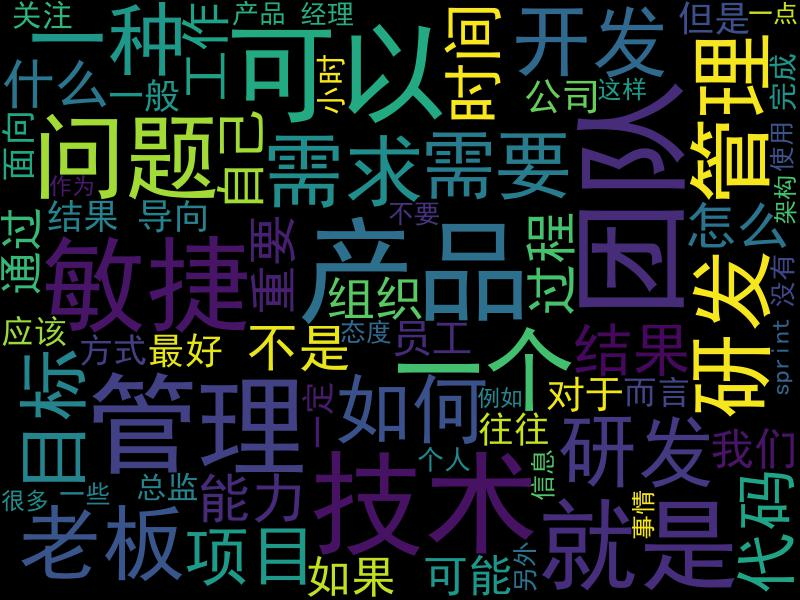
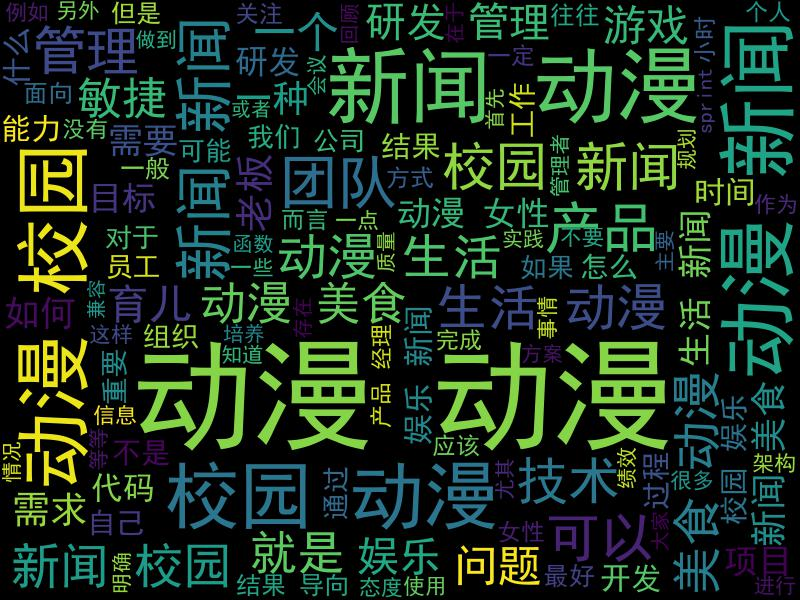
add interest bar_graph and finish query by interest

diff --git a/closends/templates/closends/setting_friends_manage.html b/closends/templates/closends/setting_friends_manage.html
@@ -783,7 +783,7 @@
                         <div class="col-md-8 person_info">
                             <div class="row">
                                 <div class="friend_name text-center col-md-6">
-                                    <a href="#">
+                                    <a href="{% url 'closends:friend_index' friend=friend.nickname page=1 %}">
                                         <strong>{{ friend.nickname }}</strong>
                                     </a>
                                 </div>
@@ -826,7 +826,7 @@
                         <div class="col-md-8 person_info">
                             <div class="row">
                                 <div class="friend_name text-center col-md-6">
-                                    <a href="#">
+                                    <a href="{% url 'closends:friend_index' friend=friend.nickname page=1 %}">
                                         <strong>{{ friend.nickname }}</strong>
                                     </a>
                                 </div>
@@ -869,7 +869,7 @@
                         <div class="col-md-8 person_info">
                             <div class="row">
                                 <div class="friend_name text-center col-md-6">
-                                    <a href="#">
+                                    <a href="{% url 'closends:friend_index' friend=friend.nickname page=1 %}">
                                         <strong>{{ friend.nickname }}</strong>
                                     </a>
                                 </div>

diff --git a/closends/templates/closends/friend_index.html b/closends/templates/closends/friend_index.html
@@ -110,6 +110,11 @@
             width: 100%;
             height: 100%;
         }
+
+        .interest .interest_bar_graph img{
+            width: 100%;
+            height: 100%;
+        }
     </style>
 
     <!--weibo-->
@@ -427,7 +432,9 @@
             </div>
 
             <div class="interest">
-                <div class="interest_bar_graph"></div>
+                <div class="interest_bar_graph">
+                    <img src="/static/closends/bar_graph/interest_bar.jpg">
+                </div>
                 <div class="interest_word_cloud">
                     <img src="/static/closends/wordcloud/cloud.jpg">
                 </div>

diff --git a/closends/views/main_page.py b/closends/views/main_page.py
@@ -12,10 +12,9 @@ from django.contrib.contenttypes.models import ContentType
         平台、分组、主题、时间、关键字查询
 """
 
-topic_name = ['IT', '人文艺术', '传媒', '体育', '健康',
-              '动漫', '女性', '娱乐', '广告公共', '房产',
-              '教育', '文学出版', '旅游', '时尚', '校园',
-              '汽车', '游戏', '生活', '美食', '育儿', '财经'] # 21 categories
+topic_name = ['体育', '健康', '动漫', '女性', '娱乐', '房产',
+              '教育', '文学', '新闻', '旅游', '时尚', '校园',
+              '汽车', '游戏', '生活', '科技', '美食', '育儿', '财经']
 
 @csrf_exempt
 @login_required
@@ -156,6 +155,7 @@ def query_by_platform(request, platform, page=1):
 @csrf_exempt
 @login_required
 def query_by_topic(request, topic, page=1):
+    print(topic)
     user = request.user.userinfo
     friends = user.friend_set.all()
     group_name = user.group_list.split(',')
@@ -165,9 +165,9 @@ def query_by_topic(request, topic, page=1):
 
     all_contents = []
     for friend in friends:
-        weibo_contents = [content for content in friend.weibocontent_set.all() if content.topic == topic]
-        zhihu_contents = [content for content in friend.zhihucontent_set.all() if content.topic == topic]
-        tieba_contents = [content for content in friend.tiebacontent_set.all() if content.topic == topic]
+        weibo_contents = [content for content in friend.weibocontent_set.all() if content.topic == topic_name[int(topic)]]
+        zhihu_contents = [content for content in friend.zhihucontent_set.all() if content.topic == topic_name[int(topic)]]
+        tieba_contents = [content for content in friend.tiebacontent_set.all() if content.topic == topic_name[int(topic)]]
         content_type = ContentType.objects.get_for_model(WeiboContent)
         for content in weibo_contents:
             if not content.is_repost:

diff --git a/closends/views/friend_index.py b/closends/views/friend_index.py
@@ -1,4 +1,4 @@
-import json
+import operator
 from django.shortcuts import render
 from django.core.paginator import Paginator
 from django.core.paginator import EmptyPage
@@ -6,7 +6,7 @@ from django.core.paginator import PageNotAnInteger
 from django.views.decorators.csrf import csrf_exempt
 from django.contrib.auth.decorators import login_required
 from closends.word2cloud.word2cloud import generate_cloud
-
+from closends.methods.draw_bar import draw_bar
 
 @csrf_exempt
 @login_required
@@ -18,15 +18,22 @@ def friend_index(request, friend, page=1):
     all_contents += friend_item.zhihucontent_set.all()
     all_contents += friend_item.tiebacontent_set.all()
 
+    # generate wordcloud
     word_num = {}
     for content in all_contents:
         topic = content.topic
         if not word_num.get(topic):
-            word_num['topic'] = 1
+            word_num[topic] = 1
         else:
-            word_num['topic'] += 1
-    word_num = list(word_num.items())
+            word_num[topic] += 1
+    word_num = sorted(word_num.items(), key=operator.itemgetter(1, 0), reverse=True)
     generate_cloud(word_num)
+
+    # draw bar of first five interest
+    labels = [label for label, _ in word_num[:5]]
+    quants = [num for _, num in word_num[:5]]
+    quants = [num/sum(quants) for num in quants]
+    draw_bar(labels, quants)
 
     # all_contents.sort(key=lambda content: content.pub_date)
 

diff --git a/closends/methods/draw_bar.py b/closends/methods/draw_bar.py
@@ -1,0 +1,28 @@
+import numpy as np
+from django.conf import settings
+from matplotlib import pyplot as plt
+plt.style.use('seaborn-dark')
+plt.rcParams['font.sans-serif']=['SimHei']
+colors = ['black', 'red', 'blue', 'green', 'yellow']
+
+
+def draw_bar(labels, quants):
+    ind = np.linspace(1, 5, 5)
+    fig = plt.figure(1)
+    ax = fig.add_subplot(111)
+    ax.bar(ind, quants, width=0.5, color=colors)
+    ax.set_xticks(ind)
+    ax.set_xticklabels(labels)
+    ax.set_xlabel('分类')
+    ax.set_ylabel('比例')
+    ax.set_title('他/她最感兴趣的内容')
+    plt.grid(True)
+    plt.ylim(0, max(quants) + 0.1)
+    plt.savefig(settings.BASE_DIR + '/static/closends/bar_graph/interest_bar.jpg')
+
+
+if __name__ == '__main__':
+    x = sorted([4, 11, 11, 17, 8])
+    x = [num / sum(x) for num in x]
+    xlabel = ['新闻', '科技', '体育', '旅游', '文学']
+    draw_bar(xlabel, x)

diff --git a/closends/word2cloud/word2cloud.py b/closends/word2cloud/word2cloud.py
@@ -13,7 +13,7 @@ def generate_cloud(word_num):
 
     word_list = []
     for word, num in word_num:
-        word_list += [word] * num * 10
+        word_list += [word] * num * 30
     shuffle(word_list)
 
     text = ' '.join(word_list) + words
